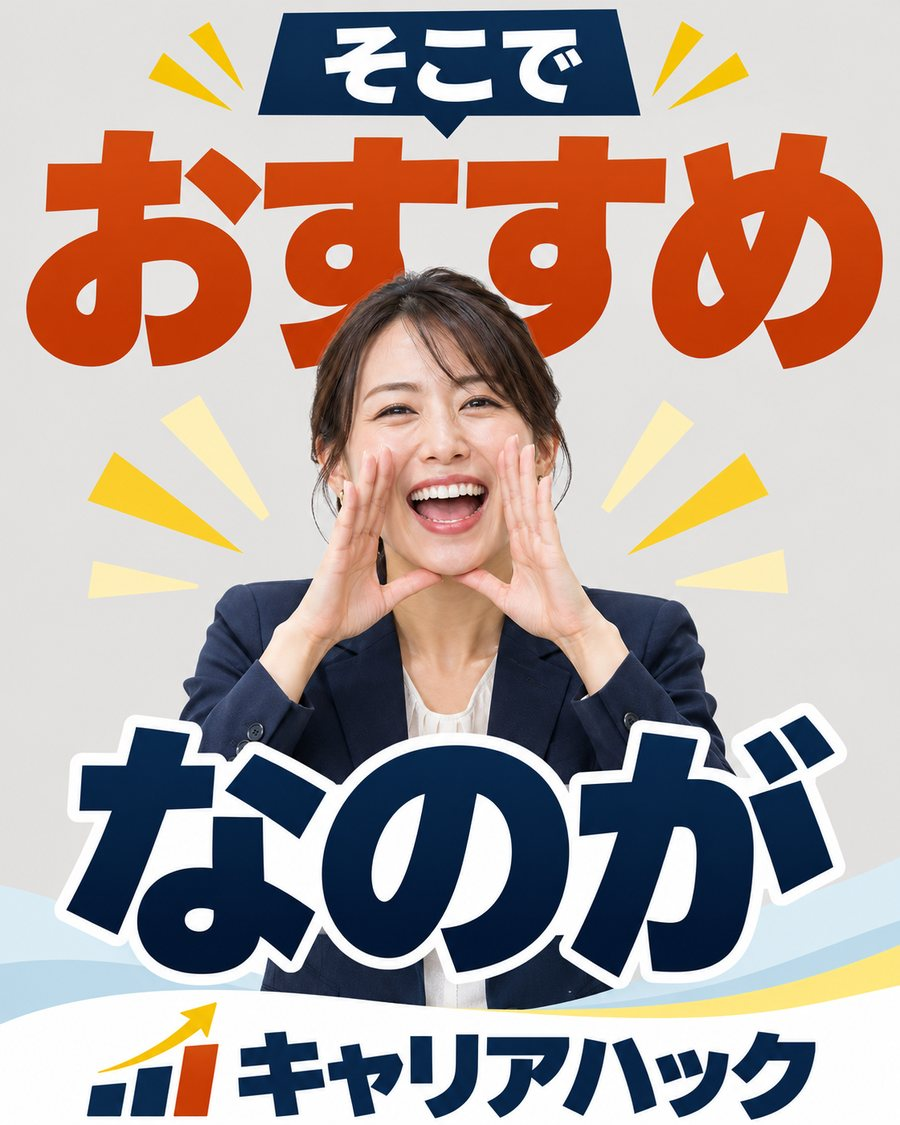
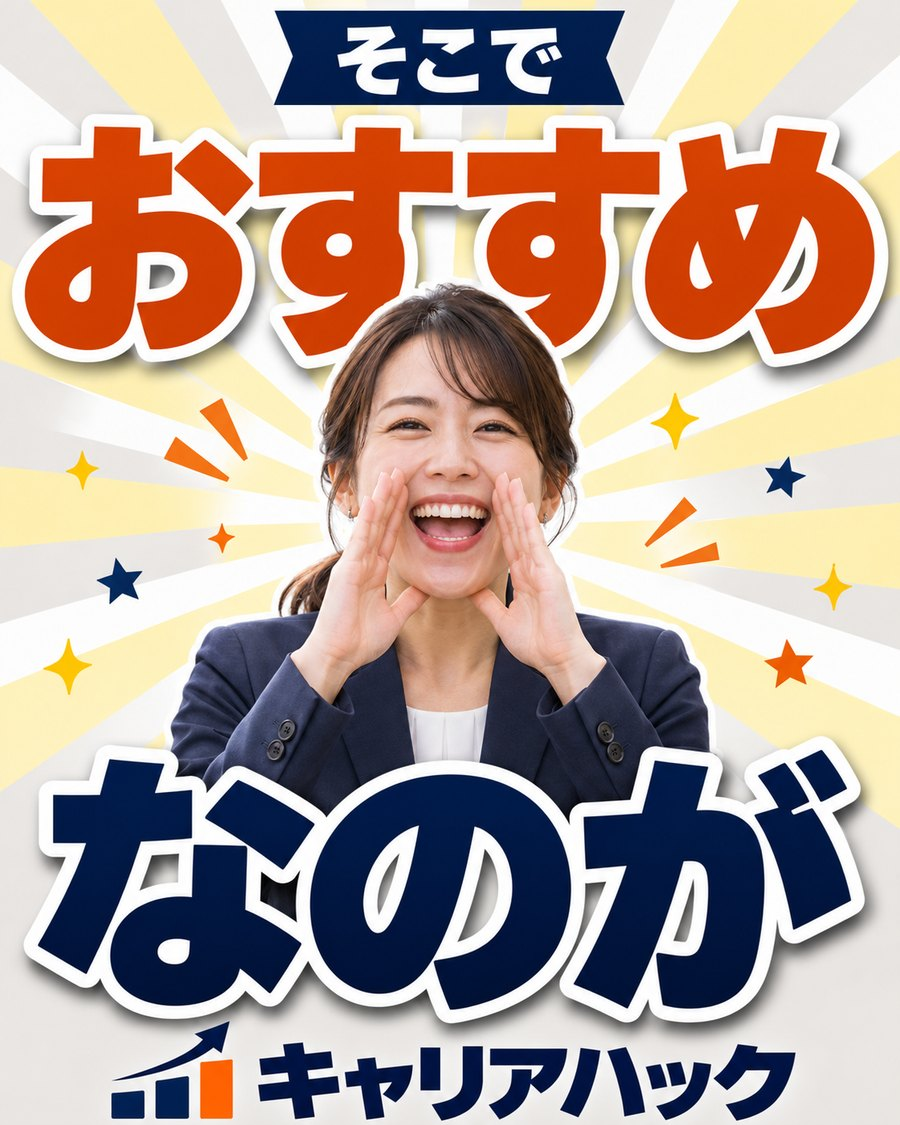
r13: FV impact (title/person/medals/CTA depth), reco GPT regen, stats 11px, card headings 22px, 24px section rhythm

diff --git a/docs/v2/style.css b/docs/v2/style.css
@@ -761,3 +761,53 @@ h1,h2,h3,p,li{word-break:auto-phrase;line-break:strict;overflow-wrap:anywhere}
 
 /* ---- round 12: C2 最小文字 10px 以上 ---- */
 .st-grid span,.st-awards span,.st-grid b small,.medals b small,.cc-ch .rb b small,.medals .mt sup{font-size:10px!important}
+
+/* ---- round 13 / B1: FVインパクト（Gemini G1〜G5） ---- */
+.top{height:46px}.brand img{height:27px}
+.top-note{font-size:12px}.top-note b{font-size:20px}
+.fv-h .l1{font-size:35px;letter-spacing:.01em;background:linear-gradient(transparent 82%,rgba(47,134,189,.55) 82%);display:inline-block;padding-right:6px}
+.fv-h .blk{font-size:45px;line-height:1.16;box-shadow:0 4px 0 #0d2238,0 8px 12px -4px rgba(13,34,56,.45);background:linear-gradient(90deg,#16304c,#2c5a8c)}
+.fv-h .blk em{font-size:1.06em;-webkit-text-stroke:.5px #b8860b;text-shadow:0 2px 0 rgba(0,0,0,.25)}
+.fv-blk{font-size:23px;box-shadow:0 3px 0 #0d2238}
+.fv-img{width:334px;right:-18px;bottom:2px}
+.fv-in::before{content:'';position:absolute;z-index:0;right:-40px;bottom:60px;width:300px;height:420px;background:radial-gradient(closest-side,rgba(255,255,255,.75),rgba(255,255,255,0));pointer-events:none}
+.medals li{width:116px;height:116px;grid-template-rows:13px 34px}
+.medals .mt{font-size:11px!important;line-height:13px}
+.medals b{font-size:29px!important;line-height:34px;letter-spacing:-.04em}
+.medals b small{font-size:11px!important}
+/* CTAの奥行き（G4） */
+.btn{min-height:68px;background:linear-gradient(180deg,#38e07a 0,#06c755 50%,#04a548 100%);box-shadow:0 5px 0 #038a3b,0 11px 18px -4px rgba(0,60,25,.45),inset 0 2px 0 rgba(255,255,255,.55),inset 0 -3px 6px rgba(0,80,30,.25)}
+.btn .bt{font-size:21px}.btn.b-s{min-height:56px}.btn.b-s .bt{font-size:17px}
+.brand img{height:25px}
+.top-note{font-size:11px;white-space:nowrap}.top-note b{font-size:17px}
+.fv-h .blk em{-webkit-text-stroke:0;text-shadow:0 2px 0 rgba(0,0,0,.3)}
+
+/* ---- round 13 / B2: 実績グリッド 11px+、カード見出し22px、どうすれば装飾（G6〜G9） ---- */
+.st-grid{gap:8px}
+.st-grid li{min-height:84px!important;padding:8px 1px 7px!important}
+.st-grid span{font-size:11px!important;letter-spacing:-.02em}
+.st-grid b{font-size:21px!important}
+.st-grid b small,.st-awards span{font-size:11px!important}
+.st-grid li.core b{font-size:21px!important}
+.ccard{padding:16px 16px 16px}
+.cc-h{font-size:22px;line-height:1.3}.cc-h b{font-size:27px}
+.cc-ch .rb small{font-size:11px}
+.jcard,.vcard{padding:16px}
+.jc-t{font-size:22px;padding:8px 8px}
+.vc-q{font-size:22px;padding:9px 8px}
+.jc-l li{font-size:15px}
+.vc-a{font-size:14px}
+/* どうすれば…：白フチ＋影で跳ねさせる */
+.how-lead b{font-size:40px;color:#fff;-webkit-text-stroke:0;text-shadow:0 0 0 #fff,0 3px 0 #2f86bd,0 6px 14px rgba(0,0,0,.55);letter-spacing:.04em}
+.how-lead{position:relative}
+.how-lead::before,.how-lead::after{content:'✦';position:absolute;color:#ffe98a;font-size:18px;animation:none}
+.how-lead::before{left:14%;top:-6px}.how-lead::after{right:12%;bottom:-2px;font-size:14px}
+/* 高さ調整（≤103%） */
+.jc-ph,.vc-ph,.jc-ph img,.vc-ph img{height:112px}
+.cc-ph,.cc-ph img{height:130px}
+.st-grid li{min-height:80px!important}
+/* B3: HTMLセクションの上下余白を24pxに統一 */
+.cta1,.cases,.stats,.cta-b,.tokuten,.jobs,.voices,.stripe,.flow,.faq,.reasons{padding-top:24px!important;padding-bottom:24px!important}
+.cases>:last-child,.reasons>:last-child,.jobs>:last-child,.voices>:last-child{margin-bottom:0!important}
+.cc-ph,.cc-ph img{height:122px}
+.jc-l{gap:4px}.jc-l li{padding-top:5px;padding-bottom:5px}

diff --git a/docs/v2m/style.css b/docs/v2m/style.css
@@ -761,3 +761,53 @@ h1,h2,h3,p,li{word-break:auto-phrase;line-break:strict;overflow-wrap:anywhere}
 
 /* ---- round 12: C2 最小文字 10px 以上 ---- */
 .st-grid span,.st-awards span,.st-grid b small,.medals b small,.cc-ch .rb b small,.medals .mt sup{font-size:10px!important}
+
+/* ---- round 13 / B1: FVインパクト（Gemini G1〜G5） ---- */
+.top{height:46px}.brand img{height:27px}
+.top-note{font-size:12px}.top-note b{font-size:20px}
+.fv-h .l1{font-size:35px;letter-spacing:.01em;background:linear-gradient(transparent 82%,rgba(47,134,189,.55) 82%);display:inline-block;padding-right:6px}
+.fv-h .blk{font-size:45px;line-height:1.16;box-shadow:0 4px 0 #0d2238,0 8px 12px -4px rgba(13,34,56,.45);background:linear-gradient(90deg,#16304c,#2c5a8c)}
+.fv-h .blk em{font-size:1.06em;-webkit-text-stroke:.5px #b8860b;text-shadow:0 2px 0 rgba(0,0,0,.25)}
+.fv-blk{font-size:23px;box-shadow:0 3px 0 #0d2238}
+.fv-img{width:334px;right:-18px;bottom:2px}
+.fv-in::before{content:'';position:absolute;z-index:0;right:-40px;bottom:60px;width:300px;height:420px;background:radial-gradient(closest-side,rgba(255,255,255,.75),rgba(255,255,255,0));pointer-events:none}
+.medals li{width:116px;height:116px;grid-template-rows:13px 34px}
+.medals .mt{font-size:11px!important;line-height:13px}
+.medals b{font-size:29px!important;line-height:34px;letter-spacing:-.04em}
+.medals b small{font-size:11px!important}
+/* CTAの奥行き（G4） */
+.btn{min-height:68px;background:linear-gradient(180deg,#38e07a 0,#06c755 50%,#04a548 100%);box-shadow:0 5px 0 #038a3b,0 11px 18px -4px rgba(0,60,25,.45),inset 0 2px 0 rgba(255,255,255,.55),inset 0 -3px 6px rgba(0,80,30,.25)}
+.btn .bt{font-size:21px}.btn.b-s{min-height:56px}.btn.b-s .bt{font-size:17px}
+.brand img{height:25px}
+.top-note{font-size:11px;white-space:nowrap}.top-note b{font-size:17px}
+.fv-h .blk em{-webkit-text-stroke:0;text-shadow:0 2px 0 rgba(0,0,0,.3)}
+
+/* ---- round 13 / B2: 実績グリッド 11px+、カード見出し22px、どうすれば装飾（G6〜G9） ---- */
+.st-grid{gap:8px}
+.st-grid li{min-height:84px!important;padding:8px 1px 7px!important}
+.st-grid span{font-size:11px!important;letter-spacing:-.02em}
+.st-grid b{font-size:21px!important}
+.st-grid b small,.st-awards span{font-size:11px!important}
+.st-grid li.core b{font-size:21px!important}
+.ccard{padding:16px 16px 16px}
+.cc-h{font-size:22px;line-height:1.3}.cc-h b{font-size:27px}
+.cc-ch .rb small{font-size:11px}
+.jcard,.vcard{padding:16px}
+.jc-t{font-size:22px;padding:8px 8px}
+.vc-q{font-size:22px;padding:9px 8px}
+.jc-l li{font-size:15px}
+.vc-a{font-size:14px}
+/* どうすれば…：白フチ＋影で跳ねさせる */
+.how-lead b{font-size:40px;color:#fff;-webkit-text-stroke:0;text-shadow:0 0 0 #fff,0 3px 0 #2f86bd,0 6px 14px rgba(0,0,0,.55);letter-spacing:.04em}
+.how-lead{position:relative}
+.how-lead::before,.how-lead::after{content:'✦';position:absolute;color:#ffe98a;font-size:18px;animation:none}
+.how-lead::before{left:14%;top:-6px}.how-lead::after{right:12%;bottom:-2px;font-size:14px}
+/* 高さ調整（≤103%） */
+.jc-ph,.vc-ph,.jc-ph img,.vc-ph img{height:112px}
+.cc-ph,.cc-ph img{height:130px}
+.st-grid li{min-height:80px!important}
+/* B3: HTMLセクションの上下余白を24pxに統一 */
+.cta1,.cases,.stats,.cta-b,.tokuten,.jobs,.voices,.stripe,.flow,.faq,.reasons{padding-top:24px!important;padding-bottom:24px!important}
+.cases>:last-child,.reasons>:last-child,.jobs>:last-child,.voices>:last-child{margin-bottom:0!important}
+.cc-ph,.cc-ph img{height:122px}
+.jc-l{gap:4px}.jc-l li{padding-top:5px;padding-bottom:5px}
